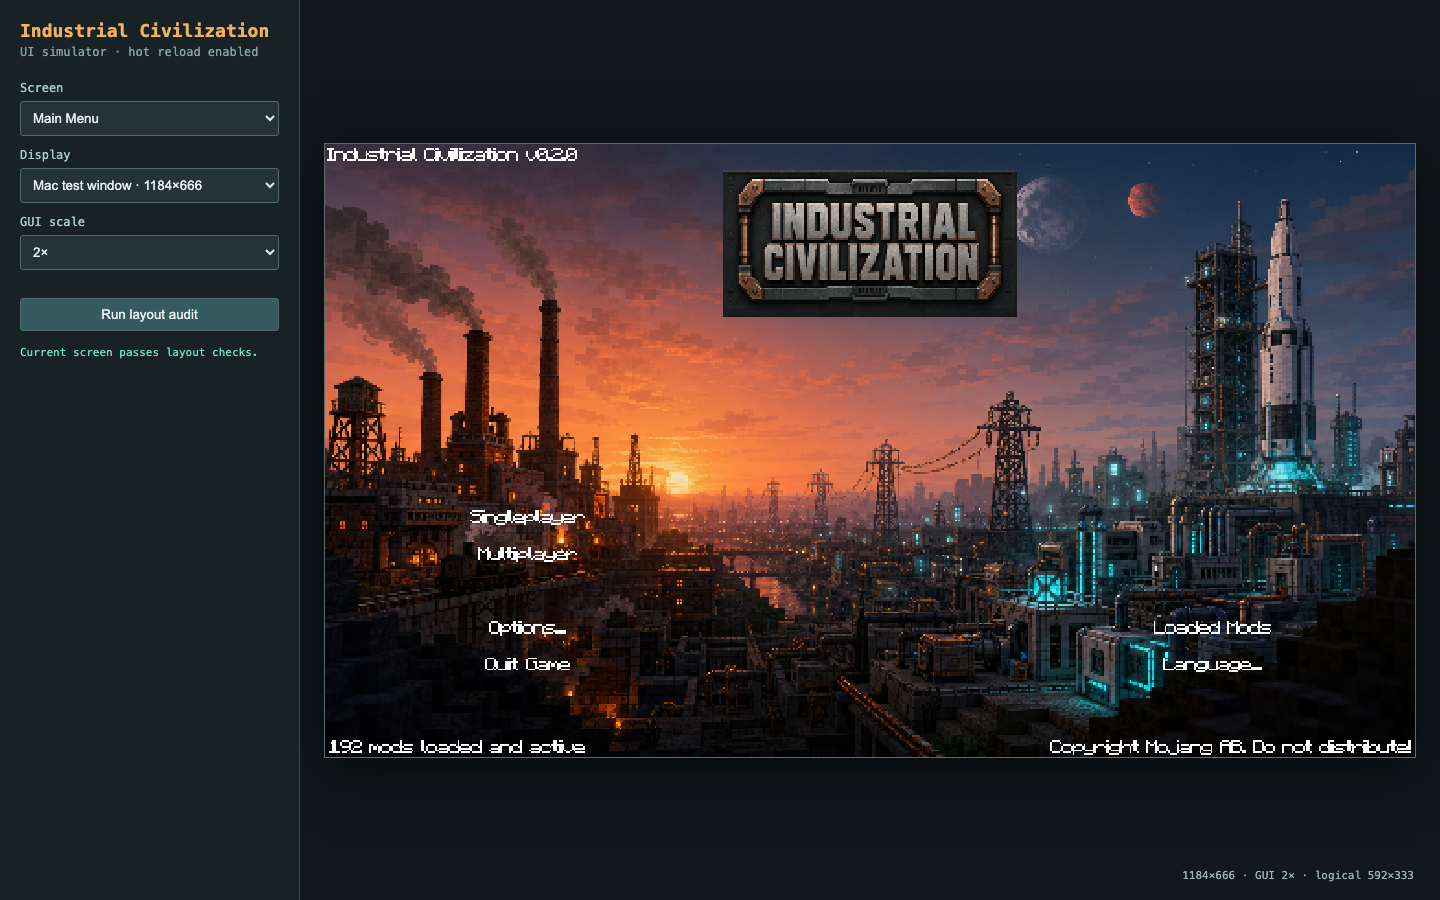
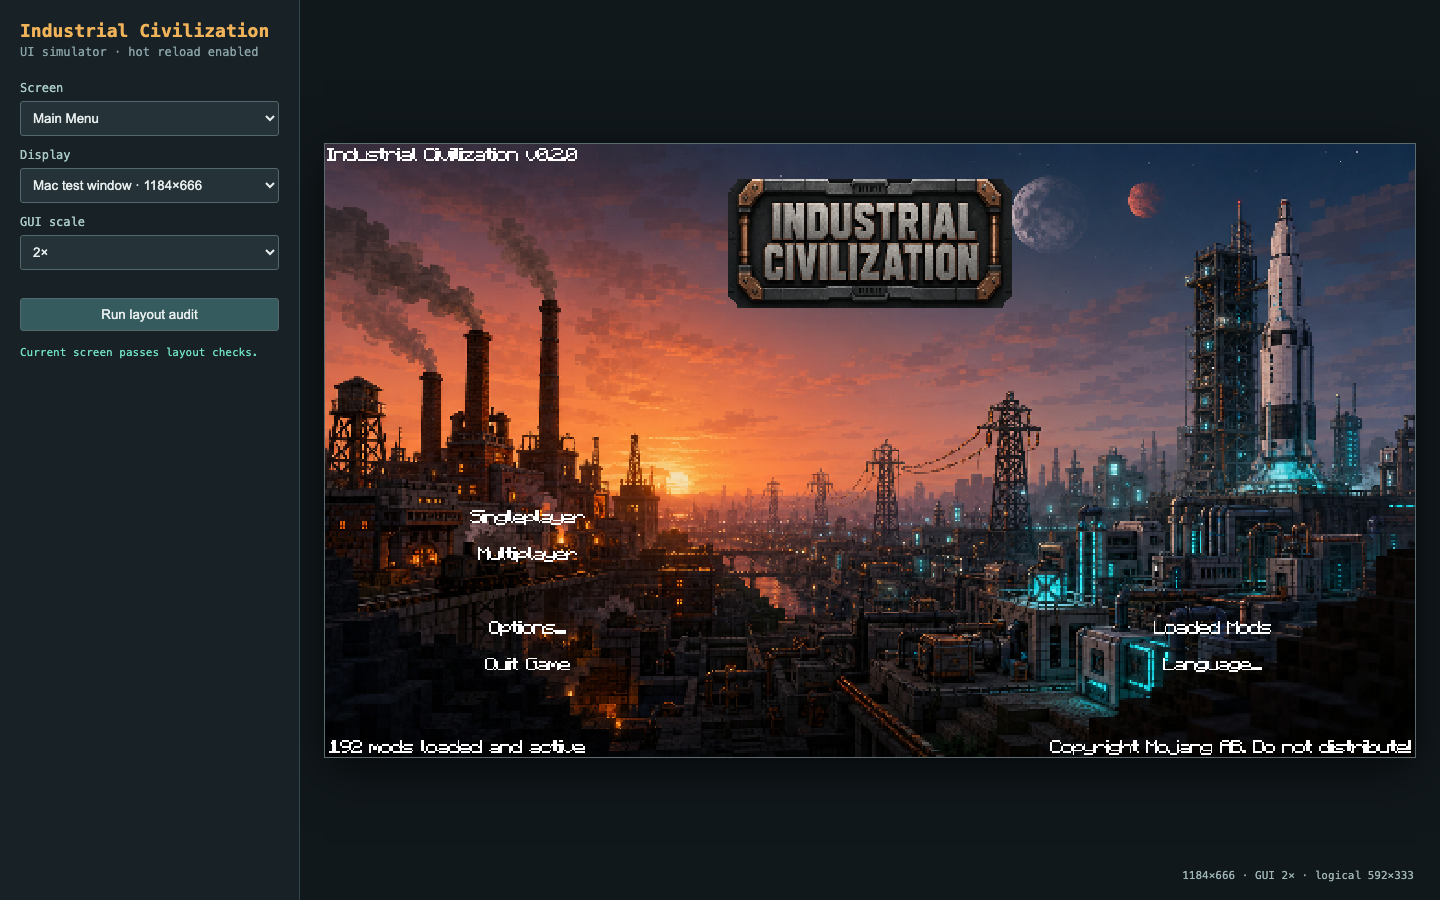
Remove matte from shared title plaques

Changed region(s): [[0.5, 0.1867, 0.7188, 0.3733]]

diff --git a/tools/crop_title_card.py b/tools/crop_title_card.py
@@ -1,0 +1,50 @@
+#!/usr/bin/env python3
+"""Remove the opaque exterior matte from the shared title-card artwork."""
+
+from pathlib import Path
+
+from PIL import Image, ImageChops, ImageDraw
+
+
+ROOT = Path(__file__).resolve().parents[1]
+PACK_LOGO = ROOT / "resources/industrialcivilizationcore/textures/mainmenu/industrial_civilization_logo.png"
+MOD_LOGO = ROOT / "development/IndustrialCivilizationCore/src/main/resources/assets/industrialcivilizationcore/textures/mainmenu/industrial_civilization_logo.png"
+QUEST_HOME = ROOT / "resources/industrialcivilizationcore/textures/gui/quest_home_v2.png"
+
+# Native-pixel outline of the plaque's outer metal silhouette. The mask keeps
+# every original plaque pixel while discarding only the rectangular matte that
+# surrounded it in the 512x256 source canvas.
+PLAQUE_OUTLINE = [
+    (29, 15), (483, 15), (502, 38), (502, 218),
+    (483, 240), (29, 240), (10, 218), (10, 38),
+]
+
+
+def plaque_cutout(source: Image.Image) -> Image.Image:
+    image = source.convert("RGBA")
+    if image.size != (512, 256):
+        raise ValueError(f"expected 512x256 title card, got {image.size}")
+    mask = Image.new("L", image.size, 0)
+    ImageDraw.Draw(mask).polygon(PLAQUE_OUTLINE, fill=255)
+    alpha = ImageChops.multiply(image.getchannel("A"), mask)
+    image.putalpha(alpha)
+    return image
+
+
+def main() -> None:
+    cutout = plaque_cutout(Image.open(PACK_LOGO))
+    cutout.save(PACK_LOGO)
+    cutout.save(MOD_LOGO)
+
+    home = Image.open(QUEST_HOME).convert("RGBA")
+    if home.size != (512, 512):
+        raise ValueError(f"expected 512x512 Better Questing atlas, got {home.size}")
+    corrected = Image.new("RGBA", home.size, (0, 0, 0, 0))
+    corrected.alpha_composite(home.crop((0, 0, 512, 256)), (0, 0))
+    corrected.alpha_composite(cutout, (0, 256))
+    corrected.save(QUEST_HOME)
+    print("Cropped exterior matte from main-menu and Better Questing title cards")
+
+
+if __name__ == "__main__":
+    main()

diff --git a/tools/validate_runtime_content.py b/tools/validate_runtime_content.py
@@ -94,6 +94,20 @@ check(gui.getpixel((15, 60))[:3] == (123, 137, 142)
       and gui.getpixel((15, 61))[:3] == (123, 137, 142),
       "energy gauge housing leaves two dark-panel pixels below it")
 check(gui.getpixel((176, 49))[3] == 255, "progress overlay strip exists")
+
+title_logo = Image.open(ASSETS / "textures/mainmenu/industrial_civilization_logo.png").convert("RGBA")
+check(title_logo.size == (512, 256), "main-menu title card remains 512x256")
+check(all(title_logo.getpixel(point)[3] == 0 for point in ((0, 0), (511, 0), (0, 255), (511, 255))),
+      "main-menu title card exterior matte is transparent")
+check(title_logo.getpixel((256, 128))[3] == 255,
+      "main-menu title card preserves its opaque plaque interior")
+
+quest_home = Image.open(ROOT / "resources/industrialcivilizationcore/textures/gui/quest_home_v2.png").convert("RGBA")
+check(quest_home.size == (512, 512), "Better Questing home atlas remains 512x512")
+check(quest_home.getpixel((0, 0))[3] == 255,
+      "Better Questing home backdrop remains opaque")
+check(all(quest_home.getpixel(point)[3] == 0 for point in ((0, 256), (511, 256), (0, 511), (511, 511))),
+      "Better Questing title layer uses the transparent plaque cutout")
 check(gui.getpixel((128, 42))[:3] == (231, 130, 50)
       and gui.getpixel((129, 42))[:3] == (101, 114, 120),
       "process arrow ends before the output item-slot border")
